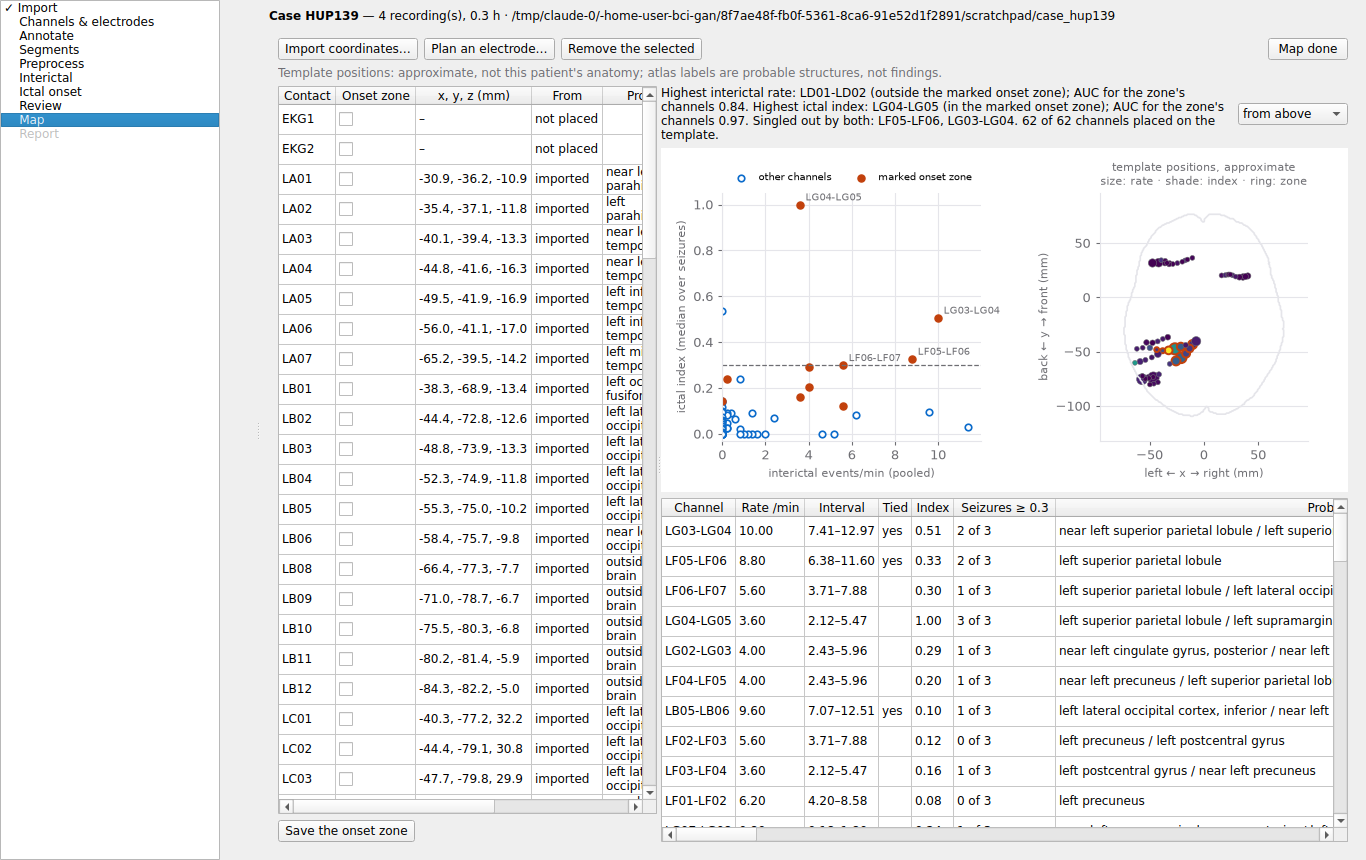
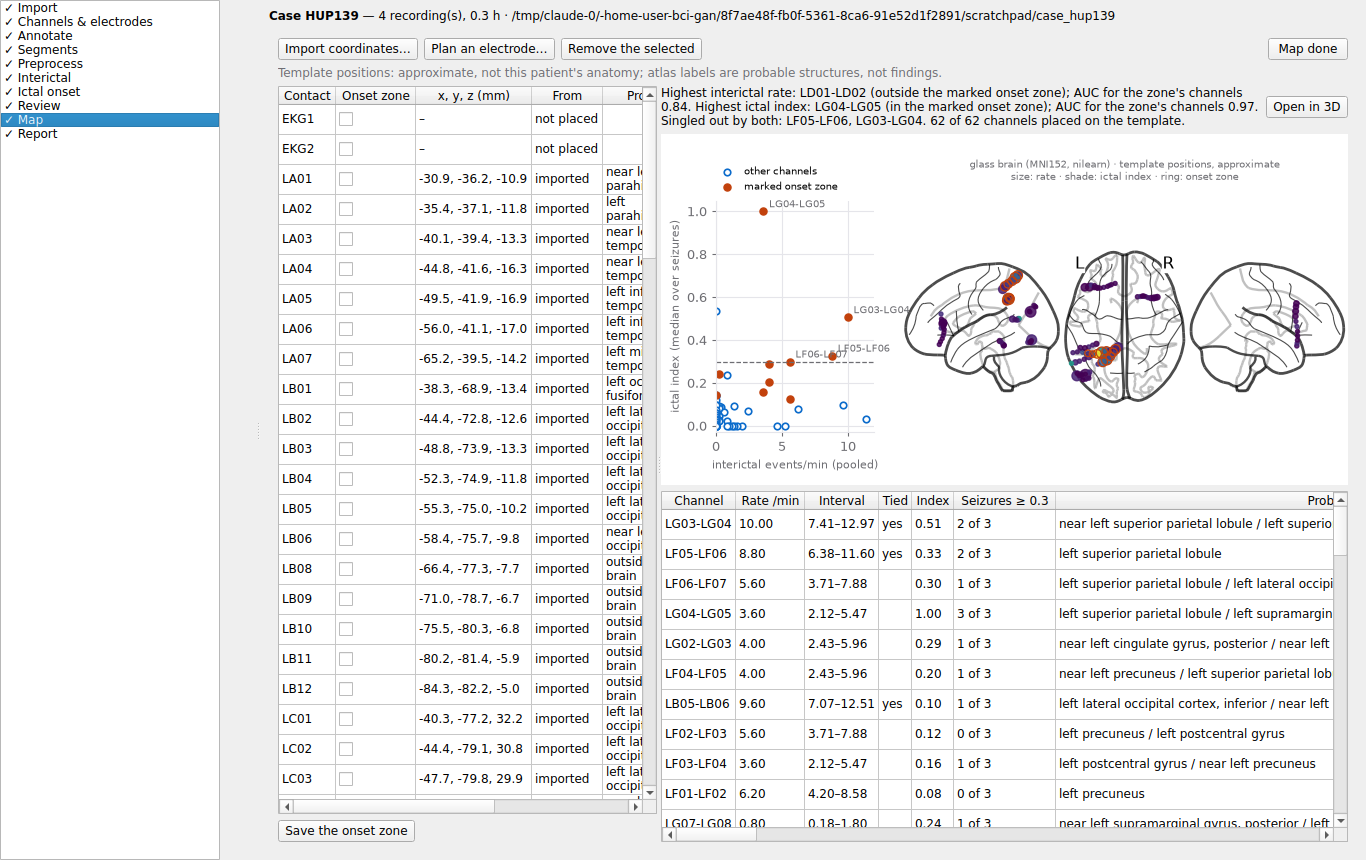
Use nilearn for the template brain: glass brain, 3D view, bundled fsaverage5
- onset_review/templatebrain.py: a case's channels on nilearn's glass brain
  (MNI152; left, above, right), sized by interictal rate, shaded by ictal
  index, onset zone ringed; and a self-contained rotatable 3D page
  (view_markers) labelled with rate, index and probable structure.
- The Map step and the report draw the glass brain when nilearn is
  installed (the outline drawing otherwise); "Open in 3D" writes and opens
  the 3D page; each report folder carries contacts-3d.html.
- anatomy.template_surface falls back to fsaverage5's pial surface from
  nilearn's package data when MNE's fsaverage has not been fetched: the
  template is drawn with no download. The Contacts page says which is used.
- nilearn joins the review extra. Tests; guide and install notes.

Claude-Session: https://claude.ai/code/session_01TmwprQPHqRNDexbPVwELoA

diff --git a/onset-hfo/onset_review/templatebrain.py b/onset-hfo/onset_review/templatebrain.py
@@ -1,0 +1,100 @@
+"""Contacts on nilearn's template brain: the glass brain and a 3D view. Qt-free.
+
+When `nilearn` is installed (it comes with the review extra), the Map step
+and the report draw a case's contacts the way iEEG papers do: on nilearn's
+**glass brain**, the MNI152 template seen from the left, from above and from
+the right, every contact as a dot sized by its interictal rate and shaded by
+its ictal index, the onset-zone contacts ringed. `write_3d_view` writes the
+same contacts as a rotatable 3D page (nilearn's `view_markers`, self-contained,
+no network) to open in a browser. Nilearn also ships fsaverage5's surface,
+which `onset_review.anatomy.template_surface` falls back to when MNE's
+fsaverage has not been fetched.
+
+Without nilearn everything here returns False or None and the callers keep
+their own drawing. The positions are template positions in every case, and
+the captions say so.
+"""
+
+from __future__ import annotations
+
+import importlib.util
+from pathlib import Path
+
+import numpy as np
+import pandas as pd
+
+__all__ = ["available", "draw_glass", "write_3d_view", "GLASS_CAPTION"]
+
+GLASS_CAPTION = ("glass brain (MNI152, nilearn) · template positions, approximate\n"
+                 "size: rate · shade: ictal index · ring: onset zone")
+
+
+def available() -> bool:
+    return importlib.util.find_spec("nilearn") is not None
+
+
+def _placed(table: pd.DataFrame) -> pd.DataFrame:
+    return table[table["placed"].astype(bool)] if len(table) else table
+
+
+def draw_glass(figure, table: pd.DataFrame, rect=(0.0, 0.0, 1.0, 1.0)):
+    """The placed channels on the glass brain, in `rect` of `figure`
+    (left, bottom, width, height in figure fractions). Returns nilearn's
+    display, or None when there is nothing to draw or no nilearn."""
+    placed = _placed(table)
+    if not available() or not len(placed):
+        return None
+    from nilearn import plotting
+
+    from onset_review.studycharts import SERIES
+
+    coords = placed[["x", "y", "z"]].to_numpy(float)
+    rate = placed["rate_per_min"].fillna(0.0).to_numpy(float)
+    top = max(float(rate.max()), 1e-9)
+    sizes = 8.0 + 50.0 * rate / top
+    shade = placed["median_ei"].fillna(0.0).clip(0, 1).to_numpy(float)
+    display = plotting.plot_markers(shade, coords, node_size=sizes, node_cmap="viridis",
+                                    node_vmin=0.0, node_vmax=1.0, display_mode="lzr",
+                                    figure=figure, axes=list(rect), colorbar=False,
+                                    alpha=0.85)
+    soz = placed["soz"].astype(bool).to_numpy()
+    if soz.any():
+        # A ring, not a dot: nilearn hands `marker_color` to matplotlib as `c`,
+        # so the face is made transparent there, one colour per marker.
+        display.add_markers(coords[soz], marker_color=[(0.0, 0.0, 0.0, 0.0)] * int(soz.sum()),
+                            marker_size=sizes[soz] + 14, edgecolors=SERIES[1],
+                            linewidths=0.9)
+    return display
+
+
+def write_3d_view(path, table: pd.DataFrame) -> Path | None:
+    """The placed channels as a rotatable 3D page, labelled with each
+    channel's name, rate, index and probable structure. None when there is
+    nothing to show or no nilearn."""
+    placed = _placed(table)
+    if not available() or not len(placed):
+        return None
+    from nilearn import plotting
+
+    from onset_review.studycharts import MUTED, SERIES
+
+    labels = []
+    for row in placed.itertuples():
+        rate = "–" if pd.isna(row.rate_per_min) else f"{row.rate_per_min:.1f}/min"
+        index = "–" if pd.isna(row.median_ei) else f"{row.median_ei:.2f}"
+        labels.append(f"{row.channel}: rate {rate}, index {index}"
+                      + (f", probably {row.where}" if row.where else "")
+                      + (" — onset zone" if row.soz else ""))
+    rate = placed["rate_per_min"].fillna(0.0).to_numpy(float)
+    sizes = 4.0 + 8.0 * rate / max(float(rate.max()), 1e-9)
+    colours = [SERIES[1] if s else (SERIES[0] if (e or 0) >= 0.3 else MUTED)
+               for s, e in zip(placed["soz"], placed["median_ei"].fillna(0.0), strict=True)]
+    view = plotting.view_markers(placed[["x", "y", "z"]].to_numpy(float),
+                                 marker_color=colours, marker_size=list(np.round(sizes, 1)),
+                                 marker_labels=labels,
+                                 title="Template positions, approximate — not this patient's "
+                                       "anatomy")
+    path = Path(path)
+    path.parent.mkdir(parents=True, exist_ok=True)
+    view.save_as_html(str(path))
+    return path

diff --git a/onset-hfo/tests/test_case_map.py b/onset-hfo/tests/test_case_map.py
@@ -221,6 +221,40 @@ def test_the_combined_table_puts_both_analyses_place_and_zone_together(tmp_path,
     assert "Singled out by both: LA1-LA2." in text and "2 of 4 channels placed" in text
 
 
+def test_nilearns_glass_brain_and_3d_view(tmp_path):
+    pytest.importorskip("nilearn")
+    from matplotlib.backends.backend_agg import FigureCanvasAgg
+    from matplotlib.figure import Figure
+
+    from onset_review import casemap, templatebrain
+
+    table = pd.DataFrame({
+        "channel": ["LA1-LA2", "LA2-LA3", "LB1-LB2"], "rate_per_min": [9.0, 4.0, np.nan],
+        "rate_ci_low": np.nan, "rate_ci_high": np.nan, "tied": [True, False, False],
+        "segments_tied": np.nan, "segments_analysed": np.nan, "median_ei": [1.0, np.nan, 0.2],
+        "seizures_high": np.nan, "seizures": np.nan, "x": [-22.0, -28.0, np.nan],
+        "y": [-20.0, -20.0, np.nan], "z": [-10.0, -10.0, np.nan],
+        "placed": [True, True, False], "where": ["left hippocampus", "", ""],
+        "soz": [True, False, False]})
+    figure = Figure(figsize=(7, 3))
+    FigureCanvasAgg(figure)
+    display = templatebrain.draw_glass(figure, table)
+    assert display is not None and len(figure.axes) >= 3, "left, above and right"
+    casemap.draw_combined(figure, table)
+    assert any(templatebrain.GLASS_CAPTION in t.get_text() for t in figure.texts)
+    casemap.draw_combined(figure, table, glass=False)
+    assert not figure.texts and len(figure.axes) == 2, "the outline drawing without it"
+    path = templatebrain.write_3d_view(tmp_path / "view.html", table)
+    import html
+
+    text = html.unescape(html.unescape(path.read_text()))
+    assert "LA1-LA2: rate 9.0/min, index 1.00, probably left hippocampus" in text
+    assert "onset zone" in text
+    assert "LB1-LB2" not in text, "a channel not placed is not drawn"
+    assert '<script src="http' not in text, "self-contained: works without a network"
+    assert templatebrain.draw_glass(figure, table.assign(placed=False)) is None
+
+
 def test_the_planner_study_arithmetic_on_a_known_shaft(atlas):
     from onset_hfo import template_study as ts
 
@@ -290,6 +324,12 @@ def test_the_window_places_labels_zones_and_maps(qapp, tmp_path, monkeypatch, at
         page.contacts.selectRow(1)
         assert page.remove_selected() == ["LB2"]
         page.view.setCurrentIndex(1)
+        from onset_review import templatebrain
+
+        if templatebrain.available():
+            assert page.view3d_button.isEnabled() and not page.view.isVisibleTo(page)
+            written = page.write_3d()
+            assert written.name == "contacts-3d.html" and written.exists()
         page.done_button.click()
         assert case.step_done("map")
         actions = [entry["action"] for entry in case.log]

diff --git a/onset-hfo/onset_review/casewindow.py b/onset-hfo/onset_review/casewindow.py
@@ -1557,6 +1557,11 @@ class MapPage(QWidget):
         self.view.addItem("from above", "top")
         self.view.addItem("from the side", "side")
         self.view.currentIndexChanged.connect(lambda _i: self._draw())
+        self.view3d_button = QPushButton("Open in 3D")
+        self.view3d_button.setToolTip("The placed channels on the template in a rotatable 3D "
+                                      "page (nilearn), opened in your browser; written to "
+                                      "derivatives/onset/map/.")
+        self.view3d_button.clicked.connect(lambda _=False: self.open_3d())
         self.done_button = QPushButton("Map done")
         self.done_button.clicked.connect(lambda _=False: self.window_.complete("map"))
         top = QHBoxLayout()
@@ -1610,6 +1615,7 @@ class MapPage(QWidget):
         view_row = QHBoxLayout()
         view_row.addWidget(self.statement, 1)
         view_row.addWidget(self.view)
+        view_row.addWidget(self.view3d_button)
         right_box.addLayout(view_row)
         right_box.addWidget(self.canvas, 1)
         right_box.addWidget(self.combined, 1)
@@ -1710,8 +1716,14 @@ class MapPage(QWidget):
         self._draw()
 
     def _draw(self) -> None:
+        from onset_review import templatebrain
         from onset_review.casemap import draw_combined
 
+        glass = templatebrain.available()
+        placed = bool(len(self._table) and self._table["placed"].any())
+        self.view.setVisible(not glass)
+        self.view3d_button.setVisible(glass)
+        self.view3d_button.setEnabled(placed)
         if len(self._table):
             draw_combined(self.figure, self._table, self.atlas,
                           view=self.view.currentData() or "top")
@@ -1720,6 +1732,21 @@ class MapPage(QWidget):
         self.canvas.draw_idle()
 
     # -- actions ---------------------------------------------------------------------------------
+    def write_3d(self):
+        from onset_review.templatebrain import write_3d_view
+
+        target = Path(self.window_.case.derivatives) / "map" / "contacts-3d.html"
+        return write_3d_view(target, self._table)
+
+    def open_3d(self):
+        from qtpy.QtCore import QUrl
+        from qtpy.QtGui import QDesktopServices
+
+        path = self.write_3d()
+        if path is not None:
+            QDesktopServices.openUrl(QUrl.fromLocalFile(str(path)))
+        return path
+
     def _store(self, frame, action: str, detail: str) -> None:
         from onset_hfo.case.electrodes import add_labels, load_electrodes, merge, save_electrodes
 

diff --git a/onset-hfo/onset_review/casemap.py b/onset-hfo/onset_review/casemap.py
@@ -150,17 +150,26 @@ def statement(table: pd.DataFrame, found: dict) -> str:
     return " ".join(parts) if parts else "Nothing analysed yet."
 
 
-def draw_combined(figure, table: pd.DataFrame, atlas=None, view: str = "top") -> dict:
+def draw_combined(figure, table: pd.DataFrame, atlas=None, view: str = "top",
+                  glass: bool = True) -> dict:
     """Left: interictal rate against ictal index, one dot per channel, filled
     when in the marked onset zone. Right: where those channels are on the
-    template, seen from above or the side, sized by rate and shaded by index,
-    over the atlas brain's outline when the atlas is here."""
+    template, sized by rate and shaded by index -- on nilearn's glass brain
+    (left, above, right) when nilearn is installed and `glass`, otherwise seen
+    from above or the side over the atlas brain's outline."""
     from onset_hfo.ictal import EI_CUTOFF
+    from onset_review import templatebrain
     from onset_review.studycharts import GRID, MUTED, SERIES, _quiet
 
     figure.clear()
-    left = figure.add_subplot(1, 2, 1)
-    right = figure.add_subplot(1, 2, 2)
+    use_glass = glass and templatebrain.available() and bool(table["placed"].any()) \
+        if len(table) else False
+    if use_glass:
+        left = figure.add_axes([0.08, 0.15, 0.23, 0.66])
+        right = None
+    else:
+        left = figure.add_subplot(1, 2, 1)
+        right = figure.add_subplot(1, 2, 2)
     _quiet(left)
     left.grid(True, color=GRID, linewidth=0.8)
     both = table.dropna(subset=["rate_per_min", "median_ei"], how="all")
@@ -182,8 +191,17 @@ def draw_combined(figure, table: pd.DataFrame, atlas=None, view: str = "top") ->
     left.set_ylim(-0.03, 1.05)
     left.set_xlim(left=0)
     if soz.any():
-        left.legend(fontsize=7, frameon=False, loc="upper right", bbox_to_anchor=(1.0, 1.12),
-                    ncol=2)
+        if use_glass:
+            left.legend(fontsize=7, frameon=False, loc="lower left", bbox_to_anchor=(-0.05, 1.0),
+                        ncol=1)
+        else:
+            left.legend(fontsize=7, frameon=False, loc="upper right",
+                        bbox_to_anchor=(1.0, 1.12), ncol=2)
+    if use_glass:
+        templatebrain.draw_glass(figure, table, rect=(0.35, 0.02, 0.65, 0.86))
+        figure.text(0.675, 0.93, templatebrain.GLASS_CAPTION, ha="center", va="top",
+                    fontsize=7, color=MUTED)
+        return points
     _quiet(right)
     right.set_aspect("equal")
     axes = (0, 1) if view == "top" else (1, 2)

diff --git a/onset-hfo/onset_review/anatomy.py b/onset-hfo/onset_review/anatomy.py
@@ -603,6 +603,9 @@ def template_surface(subjects_dir=None, cell_mm: float = TEMPLATE_CELL_MM,
             return loaded["vertices"], loaded["faces"]
     root = template_dir(subjects_dir)
     if root is None:
+        bundled = nilearn_surface()
+        if bundled is not None:
+            return bundled
         raise FileNotFoundError(
             "The fsaverage template is not on this machine. Fetch it once with "
             "mne.datasets.fetch_fsaverage() (a few hundred megabytes), or the button "
@@ -623,6 +626,27 @@ def template_surface(subjects_dir=None, cell_mm: float = TEMPLATE_CELL_MM,
             np.savez_compressed(cache, vertices=vertices, faces=faces)
         except OSError:
             pass
+    return vertices, faces
+
+
+def nilearn_surface() -> tuple[np.ndarray, np.ndarray] | None:
+    """The same template at lower resolution -- fsaverage5's pial surface,
+    10,242 vertices a hemisphere -- from nilearn's own package data: no
+    download, so the template can be drawn where MNE's fetch is not possible.
+    None when nilearn is not installed. Metres, both hemispheres."""
+    try:
+        from nilearn import datasets
+    except ImportError:
+        return None
+    try:
+        mesh = datasets.load_fsaverage("fsaverage5")["pial"]
+        parts = [mesh.parts["left"], mesh.parts["right"]]
+    except Exception:       # noqa: BLE001 - an unexpected nilearn: fall back to fetching
+        return None
+    vertices = np.vstack([np.asarray(p.coordinates, dtype=float) for p in parts]) / 1000.0
+    offset = len(parts[0].coordinates)
+    faces = np.vstack([np.asarray(parts[0].faces, dtype=int),
+                       np.asarray(parts[1].faces, dtype=int) + offset])
     return vertices, faces
 
 

diff --git a/onset-hfo/tests/test_review_core.py b/onset-hfo/tests/test_review_core.py
@@ -1057,10 +1057,23 @@ def test_the_template_surface_is_both_hemispheres_in_metres_and_cached(tmp_path)
 def test_a_missing_template_says_how_to_fetch_it(tmp_path, monkeypatch):
     from onset_review import anatomy
 
-    # Whatever this machine has configured in MNE, the template is not found.
+    # Whatever this machine has configured in MNE, the template is not found,
+    # and nilearn's bundled one is not installed.
     monkeypatch.setattr(anatomy, "template_dir", lambda _subjects_dir=None: None)
+    monkeypatch.setattr(anatomy, "nilearn_surface", lambda: None)
     with pytest.raises(FileNotFoundError, match="fetch_fsaverage"):
         anatomy.template_surface(tmp_path, cache_dir=tmp_path)
+
+
+def test_without_a_fetch_nilearns_bundled_template_is_drawn(tmp_path, monkeypatch):
+    pytest.importorskip("nilearn")
+    from onset_review import anatomy
+
+    monkeypatch.setattr(anatomy, "template_dir", lambda _subjects_dir=None: None)
+    vertices, faces = anatomy.template_surface(tmp_path, cache_dir=tmp_path)
+    assert vertices.shape == (2 * 10242, 3) and faces.max() == len(vertices) - 1
+    assert vertices[:, 0].min() < -0.06 and vertices[:, 0].max() > 0.06, "both hemispheres"
+    assert np.abs(vertices).max() < 0.12, "metres"
 
 
 def test_the_coordinate_space_is_read_from_the_sidecar_and_never_guessed(tmp_path):

diff --git a/onset-hfo/onset_review/pages.py b/onset-hfo/onset_review/pages.py
@@ -24,6 +24,7 @@ from __future__ import annotations
 
 import contextlib
 import html
+import importlib.util
 
 from qtpy.QtCore import QByteArray, QEvent, QSize, Qt, QTimer, Signal
 from qtpy.QtGui import QKeySequence
@@ -1136,6 +1137,10 @@ class PageWindow(QMainWindow):
             self.fetch_status.setText(f"On this machine: {root}")
             self.fetch_button.setText("Template brain is fetched")
             self.fetch_button.setEnabled(False)
+        elif importlib.util.find_spec("nilearn") is not None:
+            self.fetch_status.setText(
+                "Drawn from nilearn's fsaverage5, installed with the app (a coarser mesh "
+                "of the same template). Fetch MNE's for the full resolution.")
         else:
             self.fetch_status.setText("Not on this machine yet.")
 

diff --git a/onset-hfo/onset_review/casereport.py b/onset-hfo/onset_review/casereport.py
@@ -328,6 +328,11 @@ def build_html(case, version: int, folder: Path, by: str) -> str:
                      + ".</p>")
         atlas = Atlas.load() if Atlas.available() else None
         parts.append(_figure(folder / "map.png", lambda f: draw_combined(f, table, atlas)))
+        from onset_review.templatebrain import write_3d_view
+
+        if write_3d_view(folder / "contacts-3d.html", table) is not None:
+            parts.append("<p class='small'>A rotatable 3D view of these contacts is "
+                         "contacts-3d.html, in this report's folder.</p>")
         rows = [{"channel": r.channel, "rate": _fmt(r.rate_per_min), "tied": "yes" if r.tied
                  else "", "ei": _fmt(r.median_ei),
                  "where": r.where or ("not placed" if not r.placed else ""),

diff --git a/onset-hfo/docs/CLINICAL_GUIDE.md b/onset-hfo/docs/CLINICAL_GUIDE.md
@@ -1625,7 +1625,7 @@ before the seizure (0.52, over the 27 seizures where that could be tested),
 barely better than the energy ratio alone (0.73),
 and its single top channel was in the zone in 15 of 28 patients.
 
-![One real patient's map: interictal rate against ictal index with the archive's onset-zone channels filled, the contacts on the template from above, and the combined table](images/onset-review-case-map.png)
+![One real patient's map: interictal rate against ictal index with the archive's onset-zone channels filled, the contacts on nilearn's glass brain, and the combined table](images/onset-review-case-map.png)
 
 *Above: a real patient (ds004100 sub-HUP139). The case holds the archive's
 own recordings: three seizures and five minutes of interictal recording. The
@@ -1666,9 +1666,18 @@ channel at its pair's midpoint, with both contacts' probable structures);
 and whether it is in the marked zone. The statement says, for this patient,
 which channel each measure puts highest and whether it is in the zone, the
 AUC of each measure for the zone's channels, and which channels both single
-out. The chart plots rate against index, zone channels filled, beside the
-contacts on the template from above or the side, sized by rate and shaded by
-index. One patient's agreement is an observation, not a validation; the
+out. The chart plots rate against index, with the zone's channels filled.
+Beside it are the contacts on **nilearn's glass brain**: the MNI152 template
+seen from the left, from above and from the right, the view iEEG papers use.
+Each contact is sized by its interictal rate and shaded by its ictal index,
+and the onset-zone contacts are ringed. **Open in 3D** writes the same
+contacts as a rotatable page, labelled with each channel's rate, index and
+probable structure, and opens it in the browser. The page is
+self-contained, so it needs no network. Each report folder carries a copy
+(`contacts-3d.html`). Without nilearn the map shows the contacts from above
+or the side over the atlas brain's outline instead. Nilearn also ships a
+coarser copy of the fsaverage template. Where MNE's has not been fetched,
+the Contacts page's 3D view draws that one, with no download. One patient's agreement is an observation, not a validation; the
 studies in [`OUTCOME.md`](OUTCOME.md) and [`ICTAL.md`](ICTAL.md) test the
 methods.
 

diff --git a/onset-hfo/docs/INSTALL.md b/onset-hfo/docs/INSTALL.md
@@ -137,7 +137,9 @@ each marked seizure starts (the Epileptogenicity Index), and places the
 contacts on a template brain (imported in MNI152 or fsaverage, or planned
 there) with probable atlas labels, to set the two side by side with the
 onset zone you mark. The atlas is fetched once, about 0.6 MB, from
-TemplateFlow. The last step checks the case for anything identifying, takes
+TemplateFlow. The brain template itself comes with the app: nilearn (part of
+the `review` extra) ships the MNI152 glass brain and fsaverage5's surface,
+so nothing has to be downloaded to see contacts on a brain. The last step checks the case for anything identifying, takes
 reviewers' sign-offs against the content they approve, and produces numbered
 PDF reports, all recorded in a tamper-evident log. `onset-review
 /path/to/case` opens a case from the terminal. The clinical guide's section
